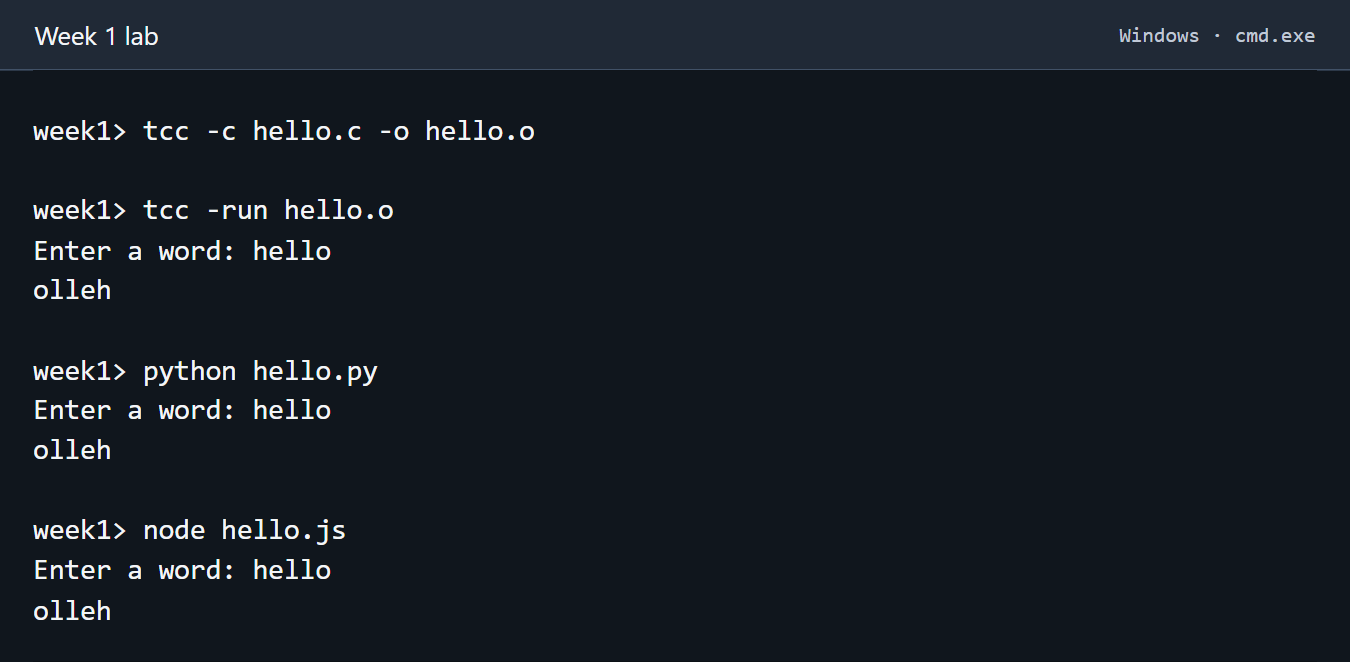
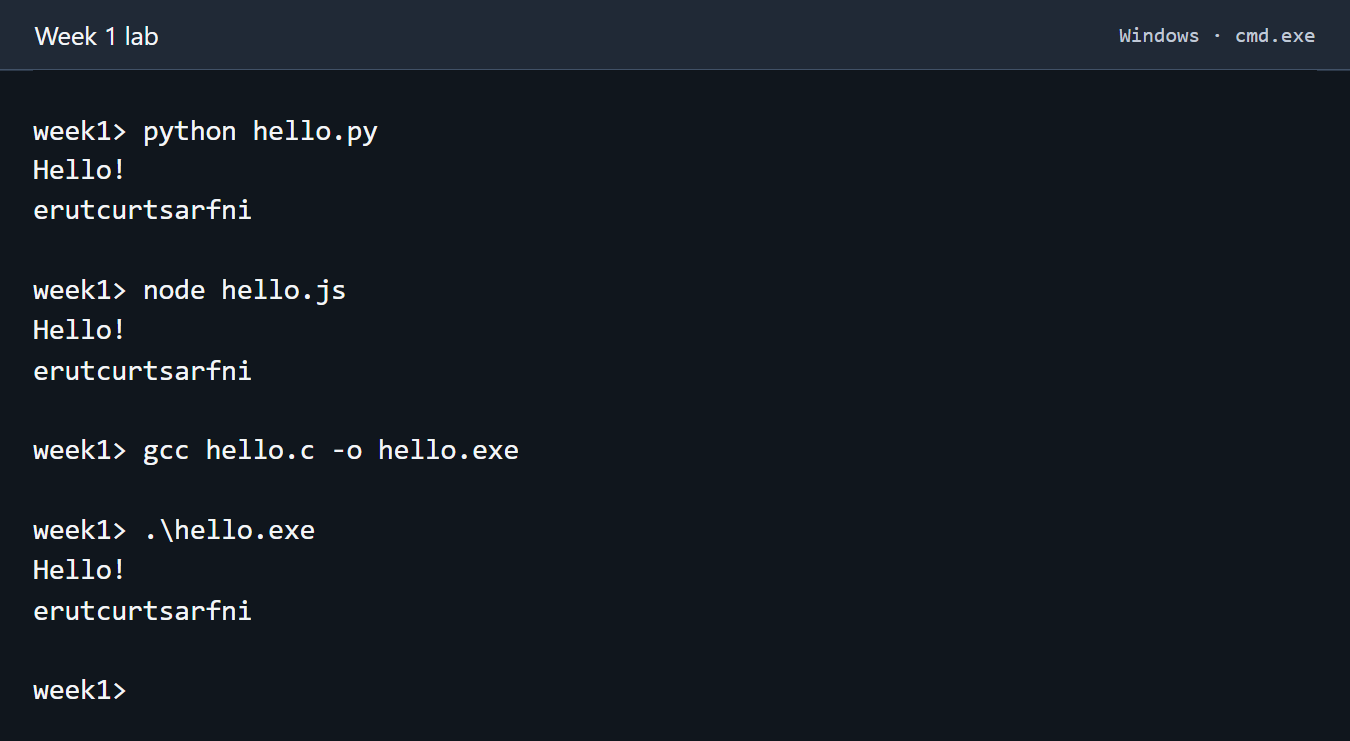
Match Week 1 lab workbook and verify all three programs

diff --git a/hello.js b/hello.js
@@ -1,12 +1,5 @@
-const readline = require("node:readline");
+const word = "infrastructure";
+const reversedWord = word.split("").reverse().join("");
 
-const terminal = readline.createInterface({
-    input: process.stdin,
-    output: process.stdout
-});
-
-terminal.question("Enter a word: ", (word) => {
-    const letters = Array.from(word);
-    console.log(letters.reverse().join(""));
-    terminal.close();
-});
+console.log("Hello!");
+console.log(reversedWord);

diff --git a/hello.c b/hello.c
@@ -2,26 +2,11 @@
 #include <string.h>
 
 int main(void) {
-    char word[256];
+    const char word[] = "infrastructure";
 
-    printf("Enter a word: ");
-    fflush(stdout);
-    if (fgets(word, sizeof word, stdin) == NULL) {
-        return 1;
-    }
-
-    size_t length = strcspn(word, "\r\n");
-    if (length == sizeof word - 1) {
-        int next = getchar();
-        if (next != '\n' && next != EOF) {
-            fputs("Please enter at most 255 characters.\n", stderr);
-            return 1;
-        }
-    }
-
-    while (length > 0) {
-        length--;
-        putchar(word[length]);
+    puts("Hello!");
+    for (size_t remaining = strlen(word); remaining > 0; --remaining) {
+        putchar(word[remaining - 1]);
     }
     putchar('\n');
     return 0;

diff --git a/hello.py b/hello.py
@@ -1,2 +1,4 @@
-word = input("Enter a word: ")
+word = "infrastructure"
+
+print("Hello!")
 print(word[::-1])

diff --git a/STYLE.md b/STYLE.md
@@ -1,8 +1,9 @@
 # Week 1 coding style
 
-- Indent each block by four spaces. Use spaces throughout each file.
-- Choose names that describe their contents, such as `word` for the input and `letters` for a list of characters.
-- For names with several words, use `snake_case` in C and Python and `lowerCamelCase` in JavaScript.
-- In C and JavaScript, put the opening brace on the same line as the statement that starts a block. In Python, indent the body after the colon.
-- Put spaces around assignment and comparison operators. Leave a blank line between distinct steps when it makes the code easier to follow.
-- Use a short comment when a choice needs explanation. Keep prompts consistent across the three programs and end each result with a newline.
+- Give a variable a name that tells the reader what it holds. In JavaScript, `reversedWord` stores the letters in their new order.
+- Use four spaces for each level of indentation. In C, the `putchar` inside the loop sits one level deeper than the loop itself.
+- Put spaces around operators so expressions are easy to read. Write `remaining - 1` when finding the last letter.
+- Choose a name that matches what a loop counts. In C, `remaining` tells us how many letters are still waiting to be printed.
+- Give a value that stays the same a constant declaration when the language supports it. The JavaScript program starts with `const word`.
+- Group related lines, with a blank line when the task changes. In Python, the blank line after the assignment separates the word from the two print calls.
+- Give each output line one purpose. All three programs print `Hello!` on the first line and the reversed word on the next.

diff --git a/README.md b/README.md
@@ -1,0 +1,23 @@
+# IIT Week 1
+
+Each program prints `Hello!` and then reverses the word `infrastructure`.
+
+## Run the programs on Windows
+
+```powershell
+python hello.py
+node hello.js
+gcc hello.c -o hello.exe
+.\hello.exe
+```
+
+## Expected output from each program
+
+```text
+Hello!
+erutcurtsarfni
+```
+
+## Setup reflection
+
+Python and JavaScript took the least setup to run because the Python interpreter and Node.js could each run a source file with one command. C took the most setup because it needed a compiler and a separate build step before the executable could run.
